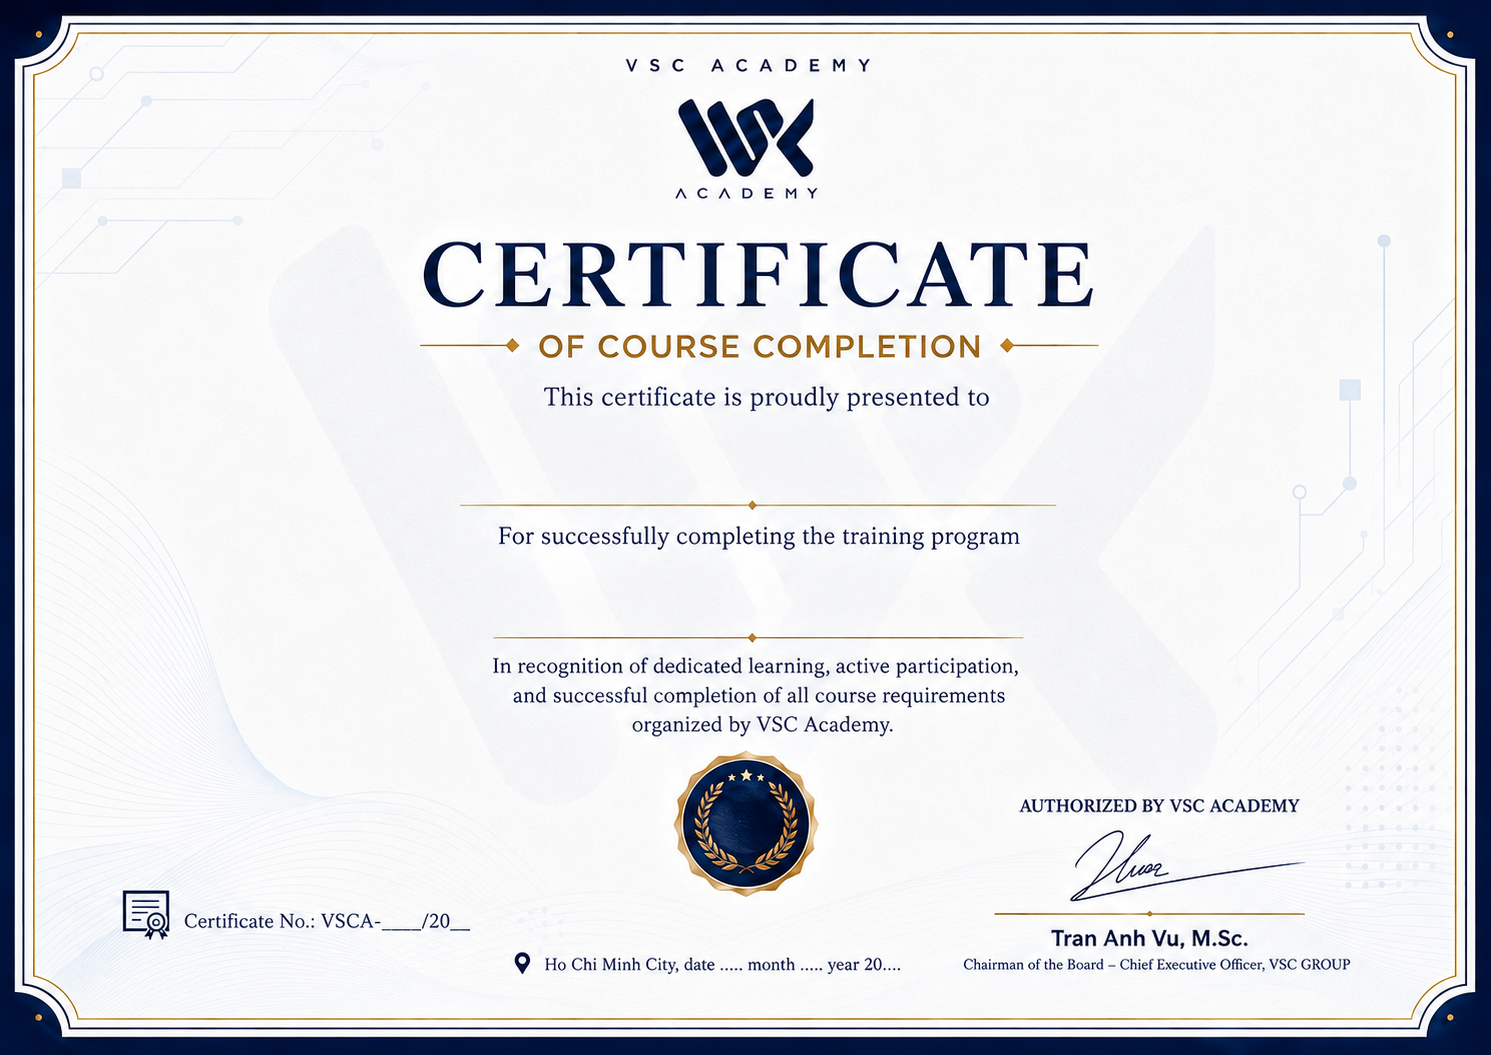
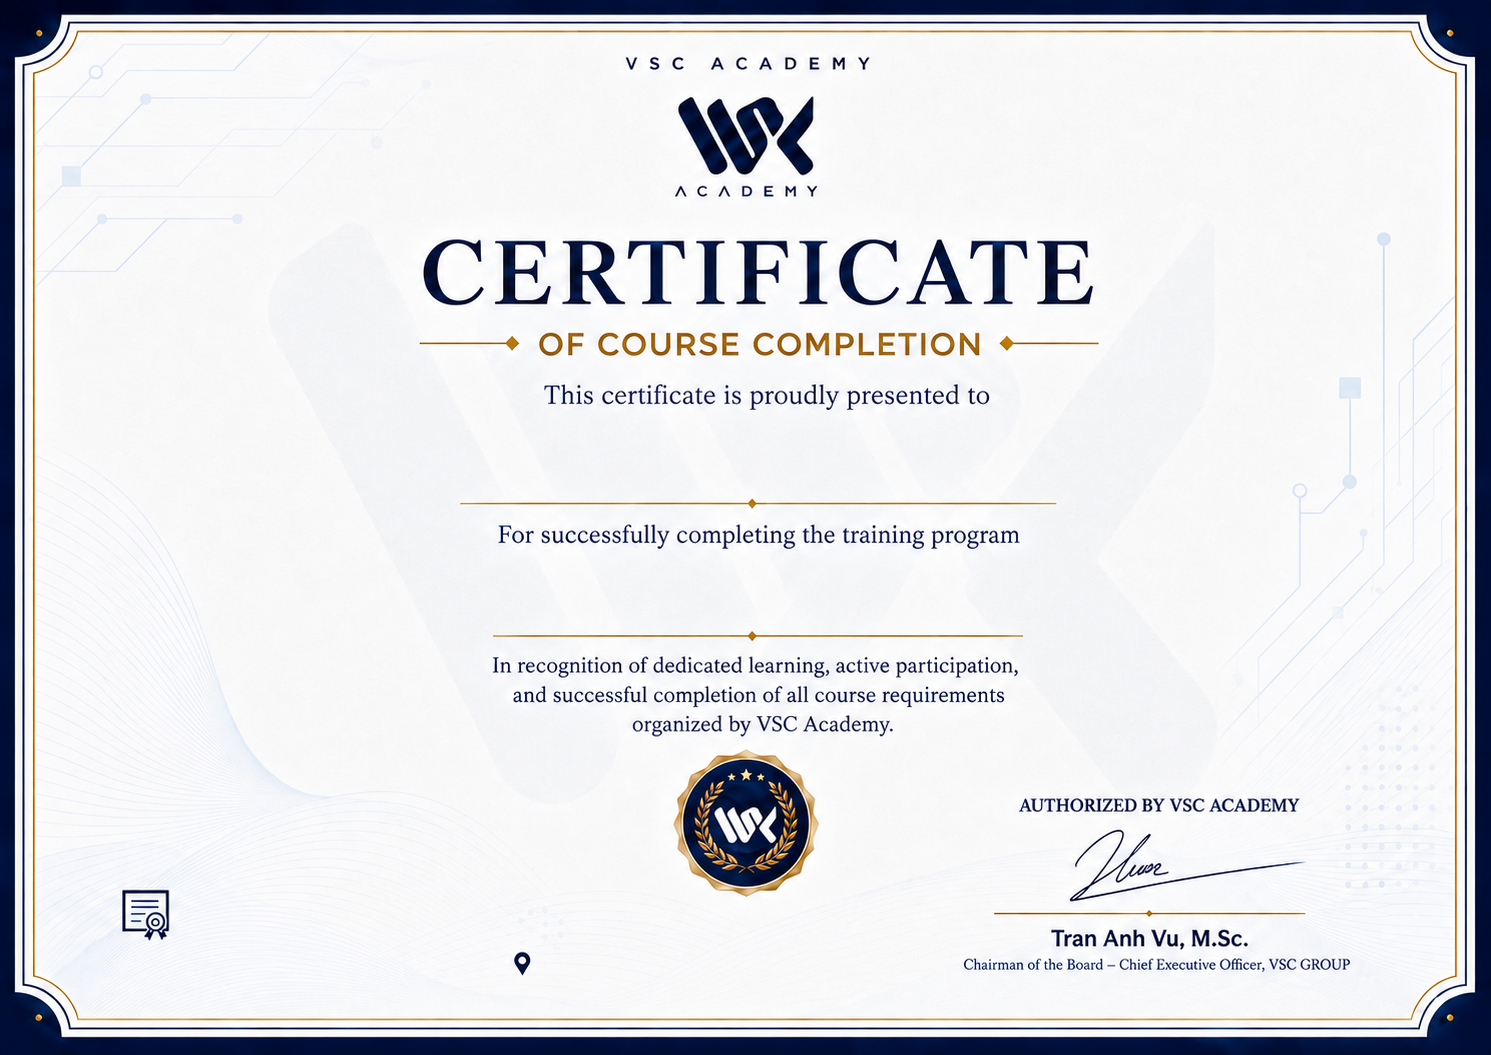
feat: overlay full number and date lines on v2 certificate art
The new artwork leaves those two rows blank, so the PDF writes complete
strings beside the icons instead of trying to hit printed underscores.

diff --git a/cms/lib/certificate.js b/cms/lib/certificate.js
@@ -173,6 +173,19 @@ function issueDateParts(iso) {
   return { year: year || "", month: month || "", day: day || "" };
 }
 
+function overlayNumberText(cert, locale) {
+  const no = displayCertificateNo(cert);
+  return locale === "en" ? `Certificate No.: ${no}` : `Số chứng nhận: ${no}`;
+}
+
+function overlayDateText(iso, locale) {
+  const { year, month, day } = issueDateParts(iso);
+  if (!year) return "";
+  return locale === "en"
+    ? `Ho Chi Minh City, date ${day} month ${month} year ${year}`
+    : `TP. Hồ Chí Minh, ngày ${day} tháng ${month} năm ${year}`;
+}
+
 /** Pixel layout of assets/certificates/vsc-completion-{vi,en}.png (1491×1055). */
 const COMPLETION_ART = {
   pngW: 1491,
@@ -180,26 +193,20 @@ const COMPLETION_ART = {
   nameGoldGap: 8.9,
   nameScriptGap: 6,
   vi: {
-    nameGoldY: 522,
-    courseGoldY: 661.5,
-    numberBaselineY: 928,
-    dateBaselineY: 974,
-    serial: [374, 416],
-    year2: [446, 468],
-    day: [728, 790],
-    month: [800, 858],
-    dateYear2: [882, 906],
+    nameGoldY: 517.5,
+    courseGoldY: 657.5,
+    numberX: 188,
+    numberBaselineY: 912,
+    dateX: 562,
+    dateBaselineY: 968,
   },
   en: {
-    nameGoldY: 505,
-    courseGoldY: 637.5,
-    numberBaselineY: 926,
-    dateBaselineY: 966,
-    serial: [374, 420],
-    year2: [450, 472],
-    day: [714, 764],
-    month: [772, 826],
-    dateYear2: [882, 906],
+    nameGoldY: 503,
+    courseGoldY: 635.5,
+    numberX: 178,
+    numberBaselineY: 913,
+    dateX: 540,
+    dateBaselineY: 961,
   },
 };
 
@@ -221,16 +228,6 @@ function textTopAboveGold(doc, pageH, pngGoldY, fontSize, gap) {
   const gold = artY(pageH, pngGoldY);
   const ascent = ((doc._font && doc._font.ascender) || 891) / 1000 * fontSize;
   return gold - (gap ?? COMPLETION_ART.nameGoldGap) - ascent;
-}
-
-function stampBlank(doc, pageW, value, pngRange, y, fontSize) {
-  if (!value) return;
-  const x0 = artX(pageW, pngRange[0]);
-  const x1 = artX(pageW, pngRange[1]);
-  doc.fontSize(fontSize);
-  const w = doc.widthOfString(String(value));
-  const x = x0 + Math.max(0, (x1 - x0 - w) / 2);
-  doc.text(String(value), x, y, { lineBreak: false });
 }
 
 function pdfFilenameForLang(row, lang) {
@@ -311,17 +308,16 @@ function renderOverlayCertificatePdf(doc, cert, template, fonts) {
     { width: W * 0.62, align: "center", lineBreak: false },
   );
 
-  const { serial, year2 } = overlaySerialParts(cert);
-  const { month, day } = issueDateParts(cert.issue_date);
-  const footerSize = 7.8;
+  const footerSize = 8;
+  const numberText = overlayNumberText(cert, locale);
+  const dateText = overlayDateText(cert.issue_date, locale);
   doc.fillColor(NAVY).font(fonts.serif).fontSize(footerSize);
-  const numberY = textTopForBaseline(doc, H, layout.numberBaselineY, footerSize);
-  const dateY = textTopForBaseline(doc, H, layout.dateBaselineY, footerSize);
-  stampBlank(doc, W, serial, layout.serial, numberY, footerSize);
-  stampBlank(doc, W, year2, layout.year2, numberY, footerSize);
-  stampBlank(doc, W, day, layout.day, dateY, footerSize);
-  stampBlank(doc, W, month, layout.month, dateY, footerSize);
-  stampBlank(doc, W, year2, layout.dateYear2, dateY, footerSize);
+  doc.text(numberText, artX(W, layout.numberX), textTopForBaseline(doc, H, layout.numberBaselineY, footerSize), {
+    lineBreak: false,
+  });
+  doc.text(dateText, artX(W, layout.dateX), textTopForBaseline(doc, H, layout.dateBaselineY, footerSize), {
+    lineBreak: false,
+  });
 }
 
 async function renderCertificatePdf(cert, template) {
@@ -780,6 +776,8 @@ module.exports = {
   resolveIssueTemplates,
   displayCertificateNo,
   overlaySerialParts,
+  overlayNumberText,
+  overlayDateText,
   pdfFilenameForLang,
   renderCertificatePdf,
   publicCertificate,

diff --git a/cms/lib/certificate.test.js b/cms/lib/certificate.test.js
@@ -9,6 +9,8 @@ const {
   COMPLETION_TEMPLATE_EN,
   displayCertificateNo,
   overlaySerialParts,
+  overlayNumberText,
+  overlayDateText,
   pdfFilenameForLang,
   resolveIssueTemplates,
 } = require("./certificate");
@@ -44,6 +46,10 @@ test("overlay templates render Vietnamese and English PDFs", async () => {
 test("display number and pair resolution follow the completion templates", () => {
   assert.equal(displayCertificateNo(sample), "VSCA-TEST/2026");
   assert.deepEqual(overlaySerialParts(sample), { serial: "TEST", year2: "26" });
+  assert.equal(overlayNumberText(sample, "vi"), "Số chứng nhận: VSCA-TEST/2026");
+  assert.equal(overlayNumberText(sample, "en"), "Certificate No.: VSCA-TEST/2026");
+  assert.equal(overlayDateText(sample.issue_date, "vi"), "TP. Hồ Chí Minh, ngày 14 tháng 08 năm 2026");
+  assert.equal(overlayDateText(sample.issue_date, "en"), "Ho Chi Minh City, date 14 month 08 year 2026");
   assert.equal(pdfFilenameForLang({ pdf_url: "a.pdf", pdf_url_vi: "a-vi.pdf", pdf_url_en: "a-en.pdf" }, "en"), "a-en.pdf");
   assert.equal(pdfFilenameForLang({ pdf_url: "a.pdf" }, "vi"), "a.pdf");
   const pair = resolveIssueTemplates({ certificate_templates: [] }, "vsc-completion");
